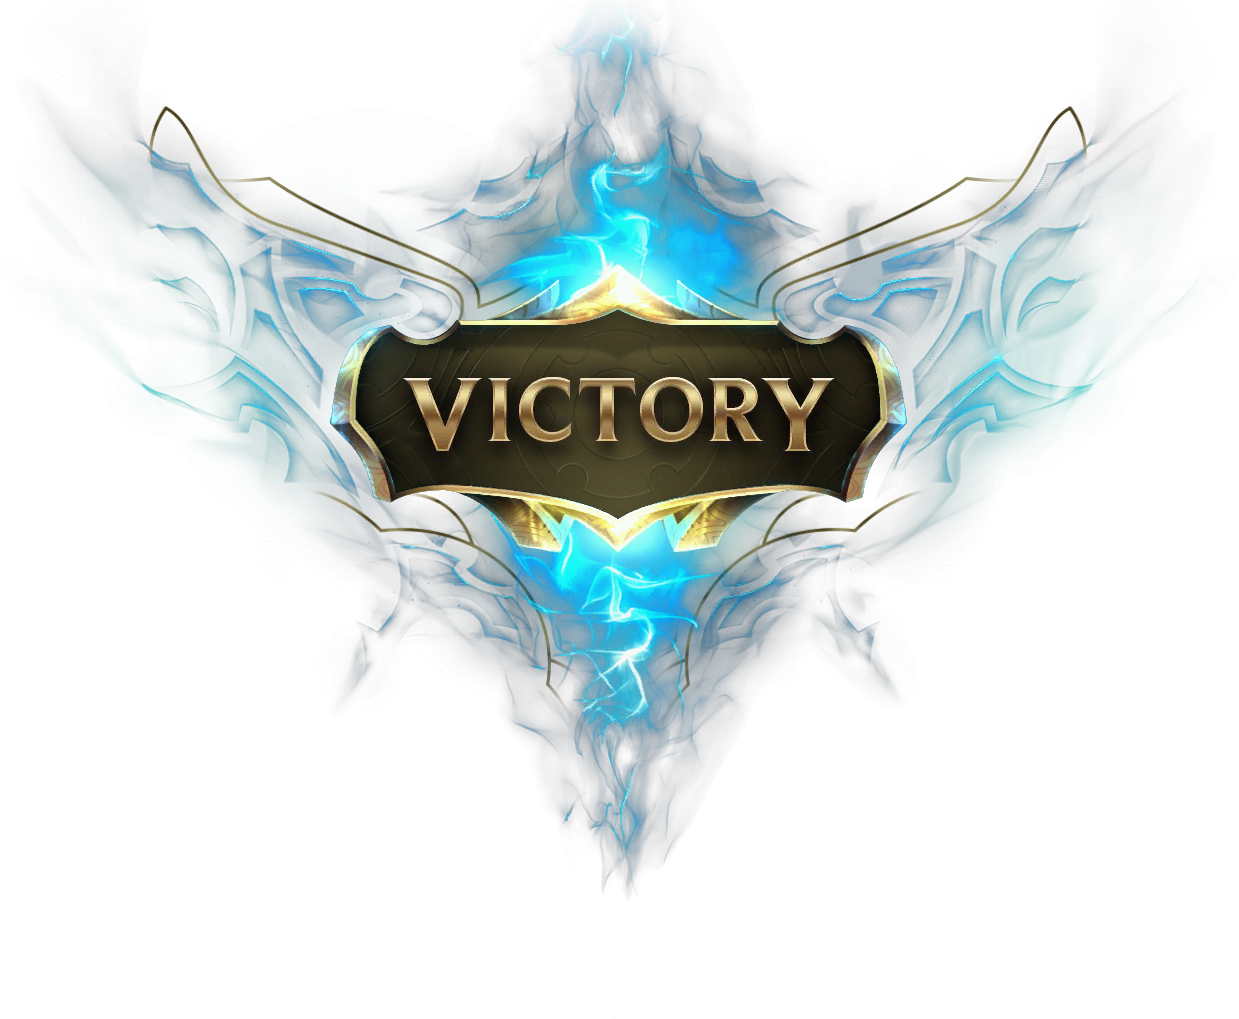
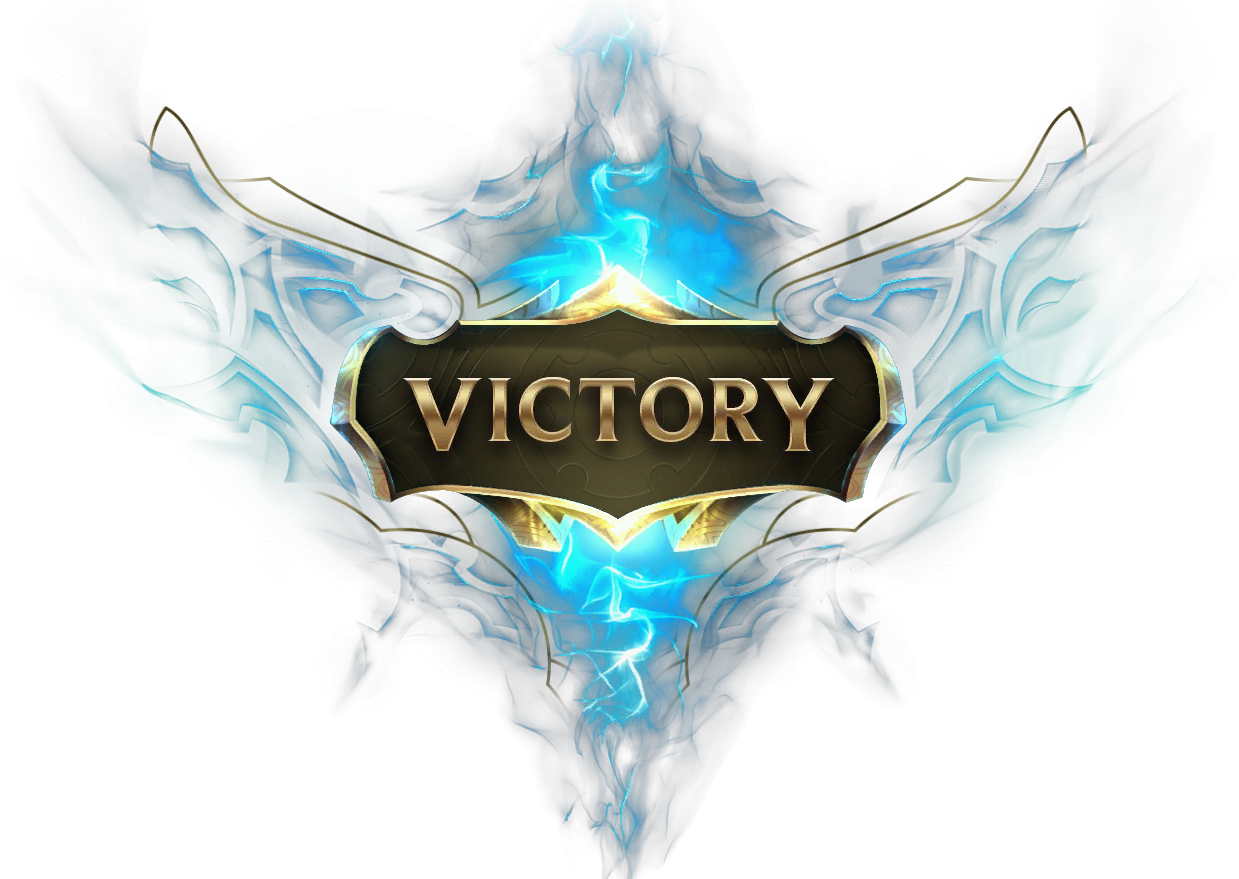
winner screen

Changed region(s): [[0.0613, 0.0307, 0.8894, 1.0]]

diff --git a/app/assets/stylesheets/welcome.css.scss b/app/assets/stylesheets/welcome.css.scss
@@ -269,44 +269,36 @@ table#red_participants{
   color: white;
 }
 
-#blue_victory{
-  width: 50%;
+.victory_container{
+  width: 100%;
   height: 650px;
-  margin-left: 25%;
+  text-align: center
 }
 
-#red_victory {
-  width: 50%;
-  height: 650px;
-  margin-left: 25%;
+.score{
+  width: 500px;
+  height: 120px;
+  text-align: center;
+  font-family: 'Ruslan Display', cursive;
+  font-size: 30px;
+  margin: auto;
+  font-weight: bold;
+  border-width: 5px;
+  border-style: solid;
+  background-color: rgba(0, 0, 0, 0.5);
+  padding-bottom: 30px;
 }
 
 .blue_score{
-  width: 500px;
-  height: 120px;
-  text-align: center;
-  font-size: 50px;
-  margin-left: 680px;
-  margin-top: 1px;
   color: #0099CC;
-  font-weight: bold;
-  border-width: 5px;
-  border-style: solid;
   border-color: #0099CC;
-  background-color: rgba(0, 0, 0, 0.5);
 }
 
 .red_score{
-  width: 500px;
-  height: 120px;
-  text-align: center;
-  font-size: 50px;
-  margin-left: 680px;
-  margin-top: 1px;
   color: rgb(204, 00, 00);
-  font-weight: bold;
-  border-width: 5px;
-  border-style: solid;
   border-color: rgb(204, 00, 00);
-  background-color: rgba(0, 0, 0, 0.5);
+}
+
+.winner_img{
+  width: 800px;
 }

diff --git a/app/models/current_game_singleton.rb b/app/models/current_game_singleton.rb
@@ -32,7 +32,7 @@ class CurrentGameSingleton
   def bettor_score bettor
     if @bettors.select{|b| b[:id] == bettor}.first
       score = @bettors.select{|b| b[:id] == bettor}.first[:bets].select{|bet| bet[:team] == @game.winning_team.team_id}.sum{|bet| bet[:end_time].to_f - bet[:start_time].to_f} / @game.matchDuration * 1000 * GAME_SPEED
-      score > 100 ? 100 : score
+      score > 1000 ? 1000 : score
     end
   end
 

diff --git a/config/initializers/game.rb b/config/initializers/game.rb
@@ -1,4 +1,4 @@
-GAME_SPEED = 5
+GAME_SPEED = 20
 File.exists?(Rails.root.join("config/riot_api.yml")) ? RIOT_API_CONF = YAML.load_file(Rails.root.join("config/riot_api.yml"))[Rails.env] : RIOT_API_CONF = {}
 API_KEY = RIOT_API_CONF['api_key'] || ENV['API_KEY']
 BASE_URL = RIOT_API_CONF['base_url'] || ENV['BASE_URL']
